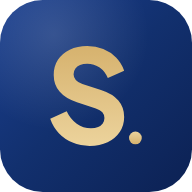
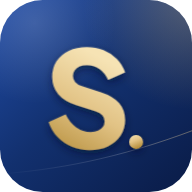
feat(marca): ícones novos do iCRM e do Pulse, e o Pulse instalável
- Ícone do iCRM refeito na identidade nova: "S." champanhe com volume sobre
  o azul da Meta de VGV (degradê, brilho champanhe no canto e o traço
  diagonal). PNG 180 (iPhone), 192, 512 e com área de segurança; favicon.
- Ícone do Pulse na mesma receita: batimento champanhe e ponto verde "ao
  vivo" (public/icones-pulse).
- pulse.webmanifest (start_url /pulse) e InstalarPulse: com o Pulse aberto, o
  <head> aponta para o manifesto e o ícone do Pulse — "Adicionar à Tela de
  Início" cria o app Pulse. Botão "Instalar o Pulse": pedido nativo no
  Android/computador; no iPhone, os dois toques (Compartilhar → Adicionar).

diff --git a/src/modules/pulse/InstalarPulse.tsx b/src/modules/pulse/InstalarPulse.tsx
@@ -1,0 +1,137 @@
+import { useEffect, useState } from 'react'
+import { Download, Share, SquarePlus, X } from 'lucide-react'
+
+/**
+ * Pulse instalável (22/11/2026) — o Rafael quer o Pulse como um app próprio
+ * no iPhone, com ícone dele, abrindo direto na sala.
+ *
+ * Como: enquanto a tela do Pulse está aberta, o <head> aponta para o manifesto
+ * do Pulse (public/pulse.webmanifest: start_url /pulse, ícone do batimento) e
+ * para o ícone e o nome do Pulse no iOS. "Adicionar à Tela de Início" lê o que
+ * está no <head> naquela hora — então nasce o app "Pulse", não o iCRM. Ao sair
+ * da tela, tudo volta ao do iCRM.
+ *
+ * Instalar: Android e computador (Chrome/Edge) têm o pedido nativo
+ * (beforeinstallprompt). O Safari do iPhone não tem — lá o botão mostra os
+ * dois toques: Compartilhar → Adicionar à Tela de Início.
+ */
+
+interface PedidoDeInstalacao extends Event {
+  prompt: () => Promise<void>
+  userChoice: Promise<{ outcome: 'accepted' | 'dismissed' }>
+}
+
+// O navegador dispara o pedido uma vez, às vezes antes da tela montar: guarda.
+let pedidoGuardado: PedidoDeInstalacao | null = null
+const ouvintes = new Set<() => void>()
+if (typeof window !== 'undefined') {
+  window.addEventListener('beforeinstallprompt', e => {
+    e.preventDefault()
+    pedidoGuardado = e as PedidoDeInstalacao
+    ouvintes.forEach(f => f())
+  })
+  window.addEventListener('appinstalled', () => { pedidoGuardado = null; ouvintes.forEach(f => f()) })
+}
+
+function trocarHead(manifesto: string, icone: string, titulo: string) {
+  const anteriores: (() => void)[] = []
+  const definir = (seletor: string, attr: 'href' | 'content', valor: string) => {
+    const el = document.head.querySelector<HTMLLinkElement | HTMLMetaElement>(seletor)
+    if (!el) return
+    const antes = el.getAttribute(attr)
+    el.setAttribute(attr, valor)
+    anteriores.push(() => { if (antes !== null) el.setAttribute(attr, antes) })
+  }
+  definir('link[rel="manifest"]', 'href', manifesto)
+  definir('link[rel="apple-touch-icon"]', 'href', icone)
+  definir('meta[name="apple-mobile-web-app-title"]', 'content', titulo)
+  return () => anteriores.forEach(f => f())
+}
+
+/** Enquanto montado, o <head> é o do Pulse. */
+export function useCabecalhoDoPulse() {
+  useEffect(() => trocarHead('/pulse.webmanifest', '/icones-pulse/apple-touch-icon.png', 'Pulse'), [])
+}
+
+function jaInstalado(): boolean {
+  if (typeof window === 'undefined') return false
+  return window.matchMedia?.('(display-mode: standalone)').matches
+    || (navigator as Navigator & { standalone?: boolean }).standalone === true
+}
+
+function ehIOS(): boolean {
+  const ua = navigator.userAgent
+  return /iPhone|iPad|iPod/.test(ua) || (ua.includes('Mac') && navigator.maxTouchPoints > 1)
+}
+
+/** Botão "Instalar" — some quando o Pulse já está aberto como app. */
+export function InstalarPulse({ className = '', escuro = false }: { className?: string; escuro?: boolean }) {
+  const [, forcar] = useState(0)
+  const [passos, setPassos] = useState(false)
+  useEffect(() => {
+    const f = () => forcar(n => n + 1)
+    ouvintes.add(f)
+    return () => { ouvintes.delete(f) }
+  }, [])
+
+  if (jaInstalado()) return null
+
+  async function instalar() {
+    if (pedidoGuardado) {
+      await pedidoGuardado.prompt()
+      await pedidoGuardado.userChoice
+      pedidoGuardado = null
+      forcar(n => n + 1)
+      return
+    }
+    setPassos(true)
+  }
+
+  return (
+    <>
+      <button
+        type="button"
+        onClick={() => void instalar()}
+        className={`inline-flex items-center gap-1.5 h-9 px-3.5 rounded-full text-[13px] font-semibold cursor-pointer transition-colors
+          focus:outline-none focus-visible:ring-2 focus-visible:ring-[#E2C385]/60
+          ${escuro ? 'bg-white/10 text-white hover:bg-white/20' : 'bg-s2 text-t1 hover:bg-s3'} ${className}`}
+      >
+        <Download size={14} strokeWidth={2} aria-hidden />
+        Instalar o Pulse
+      </button>
+
+      {passos && (
+        <div className="fixed inset-0 z-[200] flex items-end sm:items-center justify-center bg-black/50 p-4" role="presentation"
+             onClick={() => setPassos(false)}>
+          {/* eslint-disable-next-line jsx-a11y/click-events-have-key-events, jsx-a11y/no-noninteractive-element-interactions -- só impede que o clique dentro feche */}
+          <div role="dialog" aria-modal="true" aria-label="Como instalar o Pulse"
+               className="w-full max-w-[380px] rounded-[22px] bg-surface p-5 text-t1 shadow-modal"
+               onClick={e => e.stopPropagation()}>
+            <div className="flex items-start gap-3">
+              <img src="/icones-pulse/icon-192.png" alt="" className="w-14 h-14 rounded-[14px]" />
+              <div className="min-w-0 flex-1">
+                <p className="font-display text-[18px] font-bold">Pulse no seu celular</p>
+                <p className="text-[13.5px] text-t3 mt-0.5">Um ícone próprio, que abre direto na sala.</p>
+              </div>
+              <button type="button" onClick={() => setPassos(false)} aria-label="Fechar"
+                className="w-8 h-8 -mr-1 -mt-1 rounded-full flex items-center justify-center text-t3 hover:bg-s2 cursor-pointer">
+                <X size={16} aria-hidden />
+              </button>
+            </div>
+            <ol className="mt-4 flex flex-col gap-3 text-[14.5px]">
+              <li className="flex items-center gap-3">
+                <span className="w-9 h-9 rounded-[11px] bg-s2 flex items-center justify-center flex-shrink-0"><Share size={17} aria-hidden /></span>
+                <span>{ehIOS() ? <>Toque em <b>Compartilhar</b>, na barra do Safari</> : <>Abra o menu do navegador</>}</span>
+              </li>
+              <li className="flex items-center gap-3">
+                <span className="w-9 h-9 rounded-[11px] bg-s2 flex items-center justify-center flex-shrink-0"><SquarePlus size={17} aria-hidden /></span>
+                <span>Escolha <b>Adicionar à Tela de Início</b> e confirme</span>
+              </li>
+            </ol>
+            <p className="mt-4 text-[12.5px] text-t4">Faça isso com o Pulse aberto: o ícone e o nome que entram na tela são os do Pulse.</p>
+          </div>
+        </div>
+      )}
+    </>
+  )
+}

diff --git a/vite.config.ts b/vite.config.ts
@@ -9,7 +9,7 @@ export default defineConfig({
       // 'prompt': a versão nova espera e a tela avisa (src/lib/atualizacao.ts).
       // 'autoUpdate' trocava em silêncio e a tela aberta seguia com o código velho.
       registerType: 'prompt',
-      includeAssets: ['favicon.svg', 'favicon.ico', 'apple-touch-icon.png', 'badge-96.png'],
+      includeAssets: ['favicon.svg', 'favicon.ico', 'apple-touch-icon.png', 'badge-96.png', 'pulse.webmanifest', 'icones-pulse/*'],
       manifest: {
         name: 'Souza Imobiliária',
         short_name: 'Souza Imob',
@@ -22,7 +22,8 @@ export default defineConfig({
         scope: '/',
         start_url: '/',
         lang: 'pt-BR',
-        // "S." Champanhe sobre Marinho — identidade Folha Clara (03/11/2026).
+        // "S." Champanhe sobre o azul da Meta de VGV (degradê + brilho champanhe,
+        // 22/11/2026). O Pulse tem manifesto e ícone próprios: pulse.webmanifest.
         // PNG primeiro: o Android e a instalação no Chrome escolhem por tamanho.
         icons: [
           { src: '/icon-192.png',          sizes: '192x192', type: 'image/png',     purpose: 'any' },
